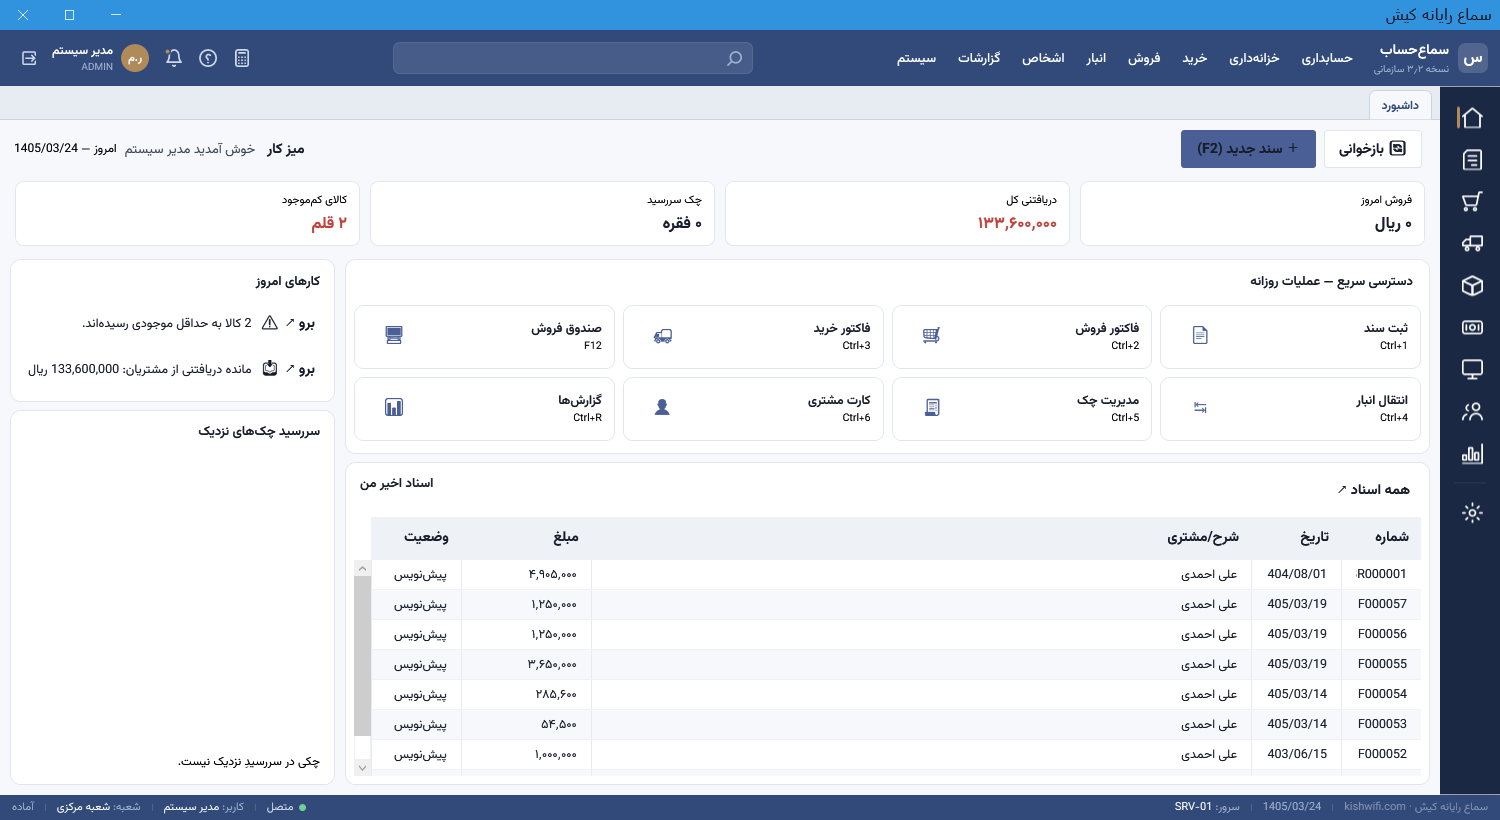
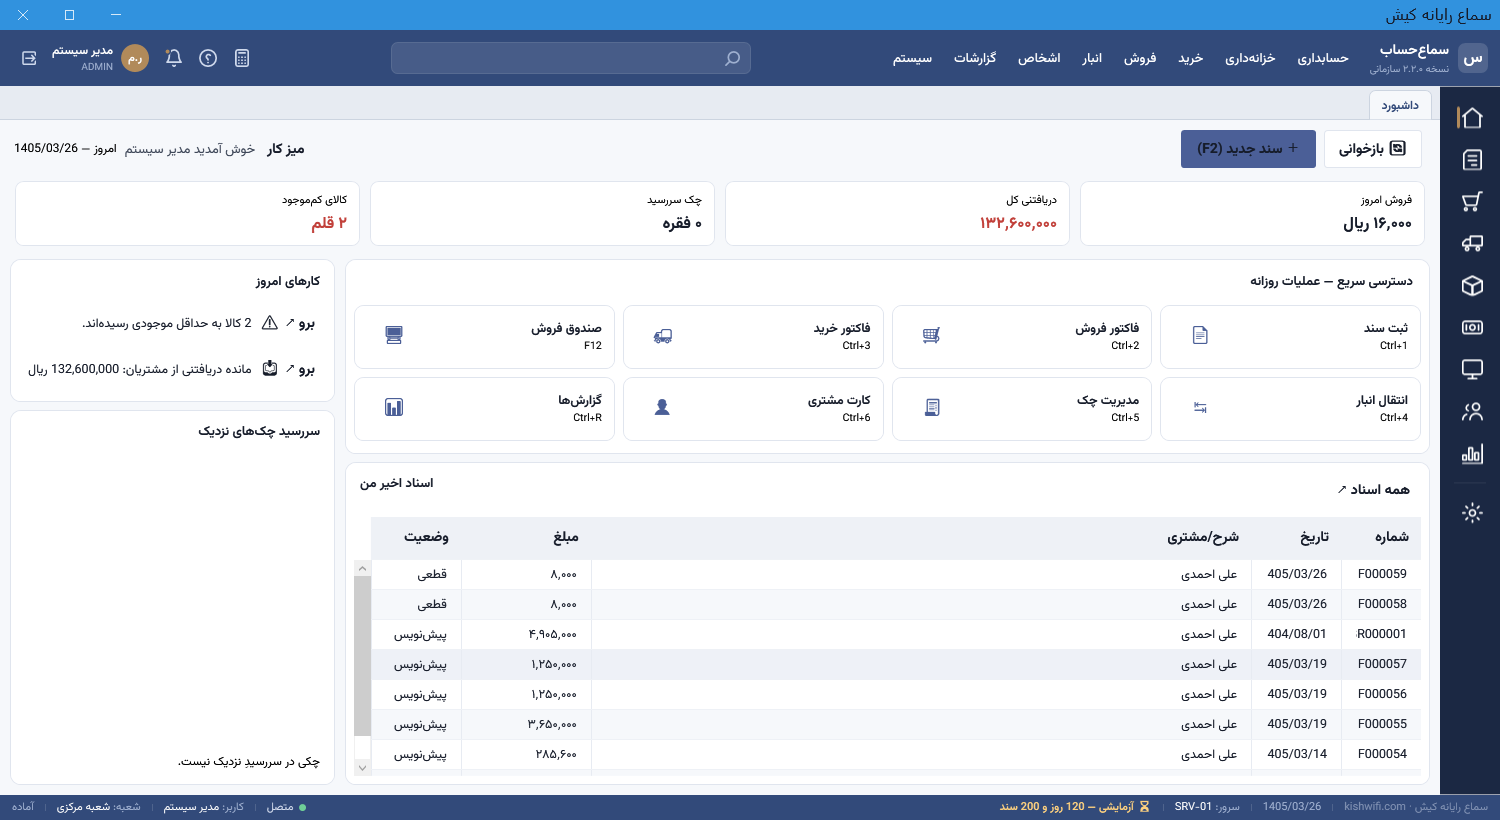
feat(licensing): بنرِ وضعیتِ لایسنس در نوارِ وضعیتِ پوسته
MainViewModel.LicenseBanner از LicenseService: فعال(رده)/آزمایشی(روز+سند)/منقضی/نامعتبر.
در نوارِ وضعیت (طلایی) نمایش داده میشود. رندرِ بصری تأیید شد. build سبز.

diff --git a/src/SamaHesab.WPF/Views/Shell/MainWindow.xaml b/src/SamaHesab.WPF/Views/Shell/MainWindow.xaml
@@ -507,6 +507,8 @@
                     <TextBlock Text="{Binding TodayPersianDate}" Foreground="#9FB0D0" FontSize="11"/>
                     <Rectangle Width="1" Fill="#24FFFFFF" Margin="11,5"/>
                     <TextBlock Foreground="#9FB0D0" FontSize="11"><Run Text="سرور: "/><Run Text="SRV-01" Foreground="White"/></TextBlock>
+                    <Rectangle Width="1" Fill="#24FFFFFF" Margin="11,5"/>
+                    <TextBlock Text="{Binding LicenseBanner}" Foreground="#FFD27F" FontSize="11" FontWeight="SemiBold"/>
                 </StackPanel>
             </DockPanel>
         </Border>

diff --git a/src/SamaHesab.WPF/ViewModels/Shell/MainViewModel.cs b/src/SamaHesab.WPF/ViewModels/Shell/MainViewModel.cs
@@ -68,6 +68,7 @@ public partial class MainViewModel : BaseViewModel
     [ObservableProperty] private string _todayPersianDate = string.Empty;
     [ObservableProperty] private string _statusMessage = "آماده";
     [ObservableProperty] private bool _isDarkTheme = true;
+    [ObservableProperty] private string _licenseBanner = string.Empty;   // فاز ۱۲ P-G7 — بنرِ وضعیتِ لایسنس
 
     private readonly Dictionary<string, (string Title, Func<IServiceProvider, BaseViewModel> Factory)> _pages;
 
@@ -85,6 +86,23 @@ public partial class MainViewModel : BaseViewModel
         _currentUser = currentUser;
         _modules = modules;
         _modules.Changed += () => System.Windows.Application.Current?.Dispatcher.Invoke(RaiseModuleFlags);
+
+        // فاز ۱۲ P-G7 — بنرِ وضعیتِ لایسنس در نوارِ وضعیت.
+        try
+        {
+            var lic = _services.GetService<LicenseService>();
+            var s = lic?.GetStatus();
+            LicenseBanner = s?.State switch
+            {
+                AppLicenseState.Activated   => $"✔ فعال — رده {s.License?.Tier}",
+                AppLicenseState.Trial       => $"⏳ آزمایشی — {s.TrialDaysRemaining} روز و {s.TrialVouchersRemaining} سند",
+                AppLicenseState.TrialExpired => "⛔ آزمایشی منقضی شد",
+                AppLicenseState.Expired     => "⛔ لایسنس منقضی",
+                AppLicenseState.Invalid     => "⛔ لایسنس نامعتبر",
+                _ => string.Empty,
+            };
+        }
+        catch { /* بنر نباید پوسته را بشکند */ }
 
         _pages = new Dictionary<string, (string, Func<IServiceProvider, BaseViewModel>)>
         {
